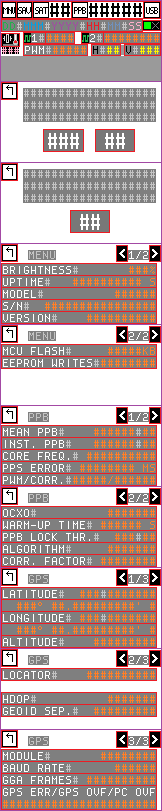
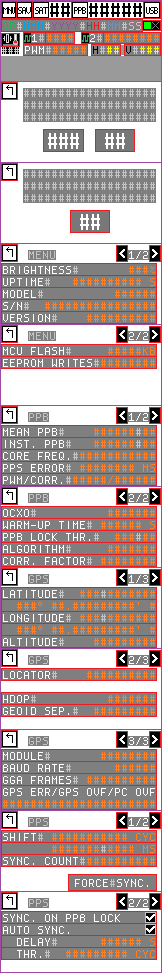
Implement new UI (WIP)

diff --git a/src/ui.c b/src/ui.c
@@ -324,6 +324,10 @@ static void ui_proc_menu_pps_shift_ms(const UIElement* element, UICommand comman
 static void ui_proc_menu_pps_sync_cnt(const UIElement* element, UICommand command, int32_t encoder_step);
 static void ui_proc_menu_pps_force_sync(const UIElement* element, UICommand command, int32_t encoder_step);
 // Page 2
+static void ui_proc_menu_pps_sync_on_ppb_lock(const UIElement* element, UICommand command, int32_t encoder_step);
+static void ui_proc_menu_pps_auto_sync(const UIElement* element, UICommand command, int32_t encoder_step);
+static void ui_proc_menu_pps_sync_delay(const UIElement* element, UICommand command, int32_t encoder_step);
+static void ui_proc_menu_pps_sync_threshold(const UIElement* element, UICommand command, int32_t encoder_step);
 
 // Page 1
 static const UIElement ui_pps_screen_elements_page1[] = {
@@ -356,6 +360,10 @@ static const UIElement ui_pps_screen_elements_page2[] = {
     { 127, 6, 21, 10, UI_STYLE_NONE,      ui_proc_menu_label_page_2of2     },
     { 149, 2, 10, 15, UI_STYLE_FOCUSABLE, ui_proc_menu_page_right_inactive },
     // Content
+    { 1, 20, 154, 11, UI_STYLE_FOCUSABLE,                            ui_proc_menu_pps_sync_on_ppb_lock },
+    { 1, 32, 154, 11, UI_STYLE_FOCUSABLE,                            ui_proc_menu_pps_auto_sync        },
+    { 1, 44, 154, 11, UI_STYLE_FOCUSABLE | UI_STYLE_INPUT_CAPTURING, ui_proc_menu_pps_sync_delay       },
+    { 1, 56, 154, 11, UI_STYLE_FOCUSABLE | UI_STYLE_INPUT_CAPTURING, ui_proc_menu_pps_sync_threshold   },
 };
 
 static UIScreen ui_pps_screen_page2 = {
@@ -2357,4 +2365,58 @@ static void ui_proc_menu_pps_force_sync(const UIElement* element, UICommand comm
     }
 
     ui_default_element_proc(element, command, encoder_step);
+}
+
+static void ui_proc_menu_pps_sync_on_ppb_lock(const UIElement* element, UICommand command, int32_t encoder_step)
+{
+    static uint_8t ui_cache_pps_sync_on_ppb_lock = 0;
+
+    // Draw label
+    if (command & UICommand_Init) {
+        ST7735_WriteStringNoWrap(element->x, element->y + 1, element->height - 1, "Sync. on PPB Lock:", Font_7x10, UI_COLOR_MENU_LABEL, UI_COLOR_BG);
+    }
+
+    // Draw check box
+    if ((command & UICommand_Init) || (ee_storage.pps_sync_on_ppb_lock != ui_cache_pps_sync_on_ppb_lock)) {
+        ui_cache_pps_sync_on_ppb_lock = ee_storage.pps_sync_on_ppb_lock;
+        ST7735_DrawImage(element->x + 143, element->y, 11, 11, ui_cache_pps_sync_on_ppb_lock ? icon_check_set_11x11 : icon_check_unset_11x11);
+    }
+
+    if (command & UICommand_Click) {
+        ee_storage.pps_sync_on_ppb_lock = !ee_storage.pps_sync_on_ppb_lock;
+        ee_is_changed          = true;
+    }
+
+    ui_default_element_proc(element, command, encoder_step);
+}
+
+static void ui_proc_menu_pps_auto_sync(const UIElement* element, UICommand command, int32_t encoder_step)
+{
+    static uint_8t ui_cache_pps_auto_sync = 0;
+
+    // Draw label
+    if (command & UICommand_Init) {
+        ST7735_WriteStringNoWrap(element->x, element->y + 1, element->height - 1, "Auto Sync.:", Font_7x10, UI_COLOR_MENU_LABEL, UI_COLOR_BG);
+    }
+
+    // Draw check box
+    if ((command & UICommand_Init) || (ee_storage.pps_auto_sync != ui_cache_pps_auto_sync)) {
+        ui_cache_pps_auto_sync = ee_storage.pps_auto_sync;
+        ST7735_DrawImage(element->x + 143, element->y, 11, 11, ui_cache_pps_auto_sync ? icon_check_set_11x11 : icon_check_unset_11x11);
+    }
+
+    if (command & UICommand_Click) {
+        ee_storage.pps_auto_sync = !ee_storage.pps_auto_sync;
+        ee_is_changed            = true;
+    }
+
+    ui_default_element_proc(element, command, encoder_step);
+}
+
+static void ui_proc_menu_pps_sync_delay(const UIElement* element, UICommand command, int32_t encoder_step)
+{
+}
+
+static void ui_proc_menu_pps_sync_threshold(const UIElement* element, UICommand command, int32_t encoder_step)
+{
 }

diff --git a/src/menu.c b/src/menu.c
@@ -2,7 +2,6 @@
 #include "trend8_t.h"
 
 //static bool         auto_save_pwm_done  = false;
-//static bool         auto_sync_pps_done  = false;
 //
 //#define TREND_SCREEN_SIZE   40
 //#define TREND_MAX_H_SCALE   64
@@ -236,10 +235,6 @@
 //                    LCD_Puts(1, 0, menu_level == 1 ? "PWM S.:":"PWM S.?");
 //                    LCD_Puts(0, 1, ee_settings.pwm_auto_save ? "      ON" : "     OFF");
 //                    break;
-//                case SCREEN_PPB_AUTO_SYNC_PPS:
-//                    LCD_Puts(1, 0, menu_level == 1 ? "PPS S.:":"PPS S.?");
-//                    LCD_Puts(0, 1, ee_settings.pps_ppm_auto_sync ? "      ON" : "     OFF");
-//                    break;
 //            }
 //        }
 //        break;
@@ -250,10 +245,6 @@
 //        {
 //            switch (current_menu_pps_screen)
 //            {
-//                case SCREEN_PPS_SYNC_MODE:
-//                    LCD_Puts(1, 0, menu_level == 1 ? "Sync.:":"Sync.?");
-//                    LCD_Puts(0, 1, ee_storage.pps_sync_on ? "      ON" : "     OFF");
-//                    break;
 //                case SCREEN_PPS_SYNC_DELAY:
 //                    LCD_Puts(1, 0, menu_level == 1 ? "Delay:":"Delay?");
 //                    snprintf(screen_buffer, SCREEN_BUFFER_SIZE, "%ld", ee_storage.pps_sync_delay);
@@ -346,22 +337,12 @@
 //                    // Update mode
 //                    ee_settings.pwm_auto_save = !ee_settings.pwm_auto_save;
 //                    break;
-//                case SCREEN_PPB_AUTO_SYNC_PPS:
-//                    // Update mode
-//                    ee_settings.pps_ppm_auto_sync = !ee_settings.pps_ppm_auto_sync;
-//                    ee_is_changed = true;
-//                    break;
 //            }
 //        }
 //        else if(menu_level == 2 && current_menu_screen == SCREEN_PPS)
 //        {   // Sub-sub menu for PPS screen
 //            switch(current_menu_pps_screen)
 //            {
-//                case SCREEN_PPS_SYNC_MODE:
-//                    // Update mode
-//                    ee_storage.pps_sync_on = !ee_storage.pps_sync_on;
-//                    ee_is_changed = true;
-//                    break;
 //                case SCREEN_PPS_SYNC_DELAY:
 //                    // Update delay
 //                    ee_storage.pps_sync_delay += encoder_increment;
@@ -391,37 +372,12 @@
 //        if(frequency_is_stable(0))
 //        {   // Frequency is stabilized
 //            // Save PWM if requested
-//            bool did_pwm = false;
-//            bool did_pps = false;
 //            if(ee_settings.pwm_auto_save && !auto_save_pwm_done)
 //            {
 //                ee_storage.pwm = TIM1->CCR2;
 //                ee_is_changed = true;
 //                // Only auto-save once per session
 //                auto_save_pwm_done = true;
-//                did_pwm = true;
-//            }
-//            if(ee_settings.pps_ppm_auto_sync && !auto_sync_pps_done)
-//            {
-//                sync_pps_out = true;
-//                // Only auto-sync once per session
-//                auto_sync_pps_done = true;
-//                did_pps = true;
-//            }
-//            if(did_pps && did_pwm)
-//            {
-//                LCD_Puts(0, 0, "PPS&PWM ");
-//                LCD_Puts(0, 1, " DONE!  ");
-//            }
-//            else if(did_pps)
-//            {
-//                LCD_Puts(0, 0, "  PPS   ");
-//                LCD_Puts(0, 1, "SYNCED! ");
-//            }
-//            else if(did_pwm)
-//            {
-//                LCD_Puts(0, 0, "  PWM   ");
-//                LCD_Puts(0, 1, "  SET!  ");
 //            }
 //        }
 //    }

diff --git a/src/icons.c b/src/icons.c
@@ -412,6 +412,34 @@ const uint16_t icon_page_right_inactive_10x15[] = {
     0x0000,0x0000,0x0000,0x0000,0x0000,0x0000,0x0000,0x0000,0x0000,0x0000,
 };
 
+const uint16_t icon_check_set_11x11[] = {
+    0xEF7B,0xEF7B,0xEF7B,0xEF7B,0xEF7B,0xEF7B,0xEF7B,0xEF7B,0xEF7B,0xEF7B,0xEF7B,
+    0xEF7B,0x0000,0x0000,0x0000,0x0000,0x0000,0x0000,0x0000,0x0000,0x0000,0xEF7B,
+    0xEF7B,0x0000,0x0000,0x0000,0x0000,0x0000,0x0000,0x0000,0xFFFF,0xFFFF,0xEF7B,
+    0xEF7B,0x0000,0x0000,0x0000,0x0000,0x0000,0x0000,0xFFFF,0xFFFF,0xFFFF,0xEF7B,
+    0xEF7B,0xFFFF,0xFFFF,0x0000,0x0000,0x0000,0xFFFF,0xFFFF,0xFFFF,0x0000,0xEF7B,
+    0xEF7B,0xFFFF,0xFFFF,0xFFFF,0x0000,0xFFFF,0xFFFF,0xFFFF,0x0000,0x0000,0xEF7B,
+    0xEF7B,0x0000,0xFFFF,0xFFFF,0xFFFF,0xFFFF,0xFFFF,0x0000,0x0000,0x0000,0xEF7B,
+    0xEF7B,0x0000,0x0000,0xFFFF,0xFFFF,0xFFFF,0x0000,0x0000,0x0000,0x0000,0xEF7B,
+    0xEF7B,0x0000,0x0000,0x0000,0xFFFF,0x0000,0x0000,0x0000,0x0000,0x0000,0xEF7B,
+    0xEF7B,0x0000,0x0000,0x0000,0x0000,0x0000,0x0000,0x0000,0x0000,0x0000,0xEF7B,
+    0xEF7B,0xEF7B,0xEF7B,0xEF7B,0xEF7B,0xEF7B,0xEF7B,0xEF7B,0xEF7B,0xEF7B,0xEF7B,
+};
+
+const uint16_t icon_check_unset_11x11[] = {
+    0xEF7B,0xEF7B,0xEF7B,0xEF7B,0xEF7B,0xEF7B,0xEF7B,0xEF7B,0xEF7B,0xEF7B,0xEF7B,
+    0xEF7B,0x0000,0x0000,0x0000,0x0000,0x0000,0x0000,0x0000,0x0000,0x0000,0xEF7B,
+    0xEF7B,0x0000,0x0000,0x0000,0x0000,0x0000,0x0000,0x0000,0x0000,0x0000,0xEF7B,
+    0xEF7B,0x0000,0x0000,0x0000,0x0000,0x0000,0x0000,0x0000,0x0000,0x0000,0xEF7B,
+    0xEF7B,0x0000,0x0000,0x0000,0x0000,0x0000,0x0000,0x0000,0x0000,0x0000,0xEF7B,
+    0xEF7B,0x0000,0x0000,0x0000,0x0000,0x0000,0x0000,0x0000,0x0000,0x0000,0xEF7B,
+    0xEF7B,0x0000,0x0000,0x0000,0x0000,0x0000,0x0000,0x0000,0x0000,0x0000,0xEF7B,
+    0xEF7B,0x0000,0x0000,0x0000,0x0000,0x0000,0x0000,0x0000,0x0000,0x0000,0xEF7B,
+    0xEF7B,0x0000,0x0000,0x0000,0x0000,0x0000,0x0000,0x0000,0x0000,0x0000,0xEF7B,
+    0xEF7B,0x0000,0x0000,0x0000,0x0000,0x0000,0x0000,0x0000,0x0000,0x0000,0xEF7B,
+    0xEF7B,0xEF7B,0xEF7B,0xEF7B,0xEF7B,0xEF7B,0xEF7B,0xEF7B,0xEF7B,0xEF7B,0xEF7B,
+};
+
 const uint16_t icon_symbol_degree_7x10[] = {
     0x0000,0x0000,0x0000,0x0000,0x0000,0x0000,0x0000,
     0x0000,0x0000,0x55AD,0x55AD,0x0000,0x0000,0x0000,

diff --git a/src/main.c b/src/main.c
@@ -21,6 +21,9 @@
 #define PPS_PULSE_WIDTH         100
 #define GPS_FRAME_WAIT_DELAY    10000
 
+static bool auto_sync_pps_done = false;
+
+
 void init_ext_clock()
 {
     // MX_GPIO_Init() sets a high level on OCXO_EN; wait for contact bounce to settle before proceeding
@@ -137,9 +140,9 @@ void gpsdo()
     }
     set_brightness(ee_storage.brightness);
 
-    if (ee_storage.pps_sync_on == 0xff) {
-        ee_storage.pps_sync_on = true;
-        ee_is_changed          = true;
+    if (ee_storage.pps_auto_sync == 0xff) {
+        ee_storage.pps_auto_sync = true;
+        ee_is_changed            = true;
     }
 
     if (ee_storage.pps_sync_delay == 0xffffffff) {
@@ -152,9 +155,9 @@ void gpsdo()
         ee_is_changed                 = true;
     }
 
-    if (ee_storage.pps_ppm_auto_sync == 0xff) {
-        ee_storage.pps_ppm_auto_sync = true;
-        ee_is_changed                = true;
+    if (ee_storage.pps_sync_on_ppb_lock == 0xff) {
+        ee_storage.pps_sync_on_ppb_lock = true;
+        ee_is_changed                   = true;
     }
 
     if (ee_storage.pwm_auto_save == 0xff) {
@@ -285,5 +288,12 @@ void gpsdo()
         gps_read();
         pll_update();
         ui_run();
+
+        // Check if we need resync PPS output
+        if(!auto_sync_pps_done && ee_settings.pps_sync_on_ppb_lock && frequency_stability == FREQ_STABILITY_STABLE)
+        {
+            sync_pps_out = true;
+            auto_sync_pps_done = true; // Only auto-sync one time per session
+        }
     }
 }

diff --git a/src/eeprom.h b/src/eeprom.h
@@ -11,10 +11,10 @@ typedef struct
     uint16_t pwm;
     uint8_t  brightness;
     /* Reading boolean from EEPROM results in unpredictable behavior so we use a char and cast it to a boolean */
-    uint8_t  pps_sync_on;
+    uint8_t  pps_auto_sync;
     uint32_t pps_sync_delay;
     uint32_t pps_sync_threshold;
-    uint8_t  pps_ppm_auto_sync;
+    uint8_t  pps_sync_on_ppb_lock;
     uint8_t  pwm_auto_save;
     uint8_t  trend_auto_h;
     uint8_t  trend_auto_v;

diff --git a/src/icons.h b/src/icons.h
@@ -27,6 +27,8 @@ extern const uint16_t icon_page_left_10x15[];
 extern const uint16_t icon_page_left_inactive_10x15[];
 extern const uint16_t icon_page_right_10x15[];
 extern const uint16_t icon_page_right_inactive_10x15[];
+extern const uint16_t icon_check_set_11x11[];
+extern const uint16_t icon_check_unset_11x11[];
 
 extern const uint16_t icon_symbol_degree_7x10[];
 
